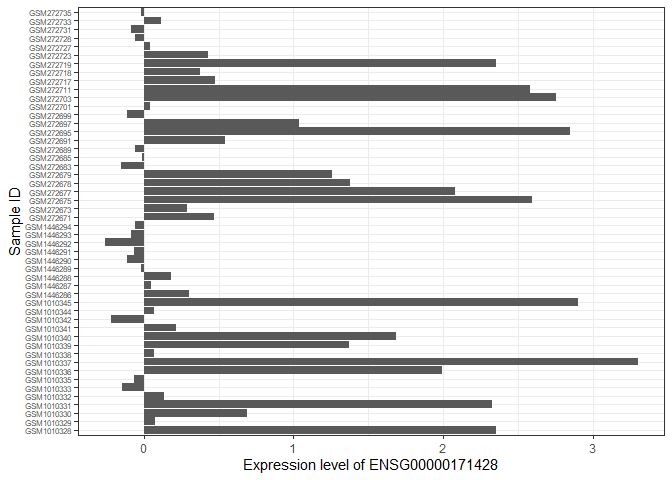
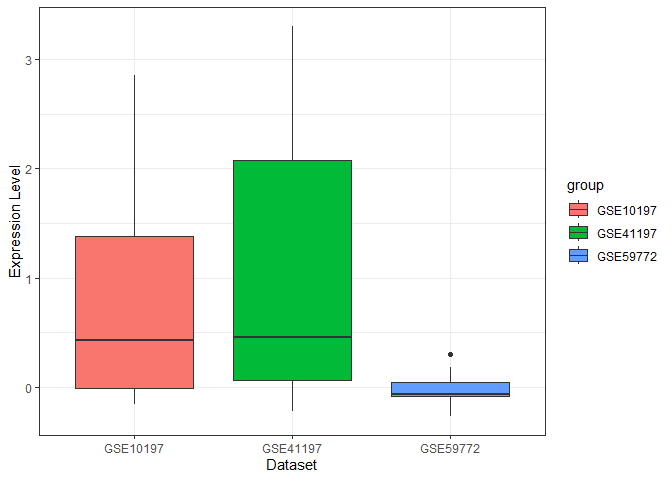
fixed graph in example

diff --git a/README.md b/README.md
@@ -178,42 +178,41 @@ GSE59772 = assay(GSE59772)
 ```
 
 Next, we converted each to a tibble and selected one row, representing
-one gene that we knew each data set had in common.
+one gene that we knew each data set had in common. We rotated the
+tibbles to have one column (the gene) and many rows (the sample). Then,
+we added the ‘group’ column, which was necessary for the function used
+in the next step.
 
 ``` r
 GSE10197_gene = GSE10197 %>%
     as_tibble(rownames='Ensembl_Gene_ID') %>%
-    filter(Ensembl_Gene_ID == "ENSG00000171428")
+    filter(Ensembl_Gene_ID == "ENSG00000171428") %>%
+    pivot_longer(cols=-Ensembl_Gene_ID,names_to='Sample_ID',values_to='Expression_Level')%>%
+    mutate(group = 'GSE10197')
 GSE41197_gene = GSE41197 %>%
     as_tibble(rownames='Ensembl_Gene_ID') %>%
-    filter(Ensembl_Gene_ID == "ENSG00000171428") 
+    filter(Ensembl_Gene_ID == "ENSG00000171428") %>%
+    pivot_longer(cols=-Ensembl_Gene_ID,names_to='Sample_ID',values_to='Expression_Level')%>%
+    mutate(group = 'GSE41197')
 GSE59772_gene = GSE59772 %>%
     as_tibble(rownames='Ensembl_Gene_ID') %>%
-    filter(Ensembl_Gene_ID == "ENSG00000171428")
+    filter(Ensembl_Gene_ID == "ENSG00000171428") %>%
+    pivot_longer(cols=-Ensembl_Gene_ID,names_to='Sample_ID',values_to='Expression_Level')%>%
+    mutate(group = 'GSE59772')
 ```
 
-We then joined the 3 tibbles into one tibble with the full_join()
-function. Then, we rotated the tibble to make the selected gene be the
-column and the samples be the rows. We now have one tibble with one
-column (the gene) and many rows (the samples). <br> <br> Finally, we
-used ggplot() to visualize the expression levels for the gene across the
-three data sets.
+We then joined the 3 tibbles into one tibble with the bind_rows()
+function. We now have one tibble with one column (the gene) and many
+rows (the samples). <br> <br> Finally, we used ggplot() to visualize the
+expression levels for the gene across the three data sets.
 
 ``` r
-combined_samples = full_join(GSE10197_gene, GSE41197_gene)
-#> Joining with `by = join_by(Ensembl_Gene_ID)`
-combined_samples = full_join(combined_samples, GSE59772_gene) %>%
-    pivot_longer(cols=-Ensembl_Gene_ID,names_to='Sample_ID',values_to='Expression_Level') %>%
-    ggplot(aes(x=Sample_ID,y=Expression_Level)) +
-    geom_col() +
-    #theme_bw() +
-    labs(x='Sample ID',y='Expression level of ENSG00000171428') +
-    coord_flip() +
-    scale_fill_brewer(palette = "Set3") +
-    theme_bw() +
-    theme(axis.text.y = element_text(size = 6))
-#> Joining with `by = join_by(Ensembl_Gene_ID)`
-combined_samples
+combined_samples = bind_rows(GSE10197_gene, GSE41197_gene, GSE59772_gene)
+
+ggplot(combined_samples, aes(x = group, y = Expression_Level, fill = group)) +
+    geom_boxplot() +
+    labs(x = "Dataset", y = "Expression Level") +
+    theme_bw()
 ```
 
 <img src="man/figures/README-plot_example_2_part_3-1.png" width="100%" />
